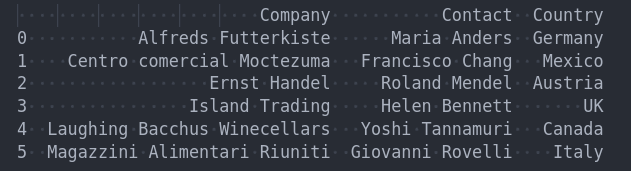
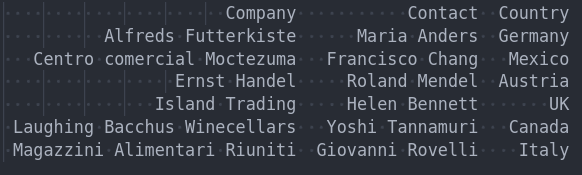
upd print_table

diff --git a/main.py b/main.py
@@ -5,7 +5,7 @@ import pandas as pd
 
 
 #  Parse a site to search and display a given table
-#  return 0 if all ok, 1 if given table not find, 2 if some problem with site
+#  return DataFrame if all ok, None otherwise
 #  example print_table('https://www.w3schools.com/html/html_tables.asp', 'ws-table-all')
 def print_table(site_url, table_class_name):
     # Get a plane text of site page
@@ -13,14 +13,14 @@ def print_table(site_url, table_class_name):
         response = requests.get(site_url)
     except:
         print(f'Some problem with the site "{site_url}"')
-        return 2
+        return None
     soup = BeautifulSoup(response.text, 'html.parser')
+
     # Search given table  by tag 'class:'
     table = soup.find('table', attrs={'class': table_class_name})
-
     if table == None:
         print(f'Table "{table_class_name}" not find')
-        return 1
+        return None
 
     # Get a header from table and create DataFrame
     header = []
@@ -35,8 +35,8 @@ def print_table(site_url, table_class_name):
         length = len(df)
         df.loc[length] = row
 
-    print(df)
-    return 0
+    print(df.to_string(index=None))
+    return df
 
 
 print_table('https://www.w3schools.com/html/html_tables.asp', 'ws-table-all')
